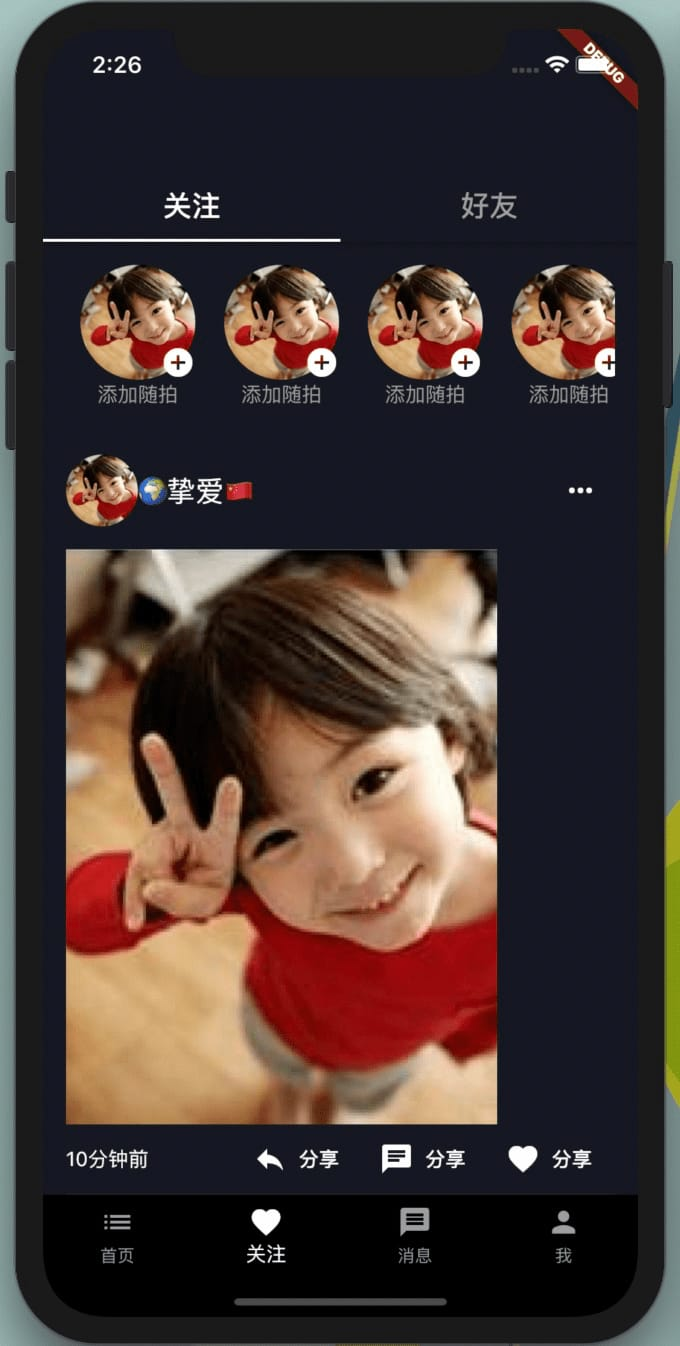
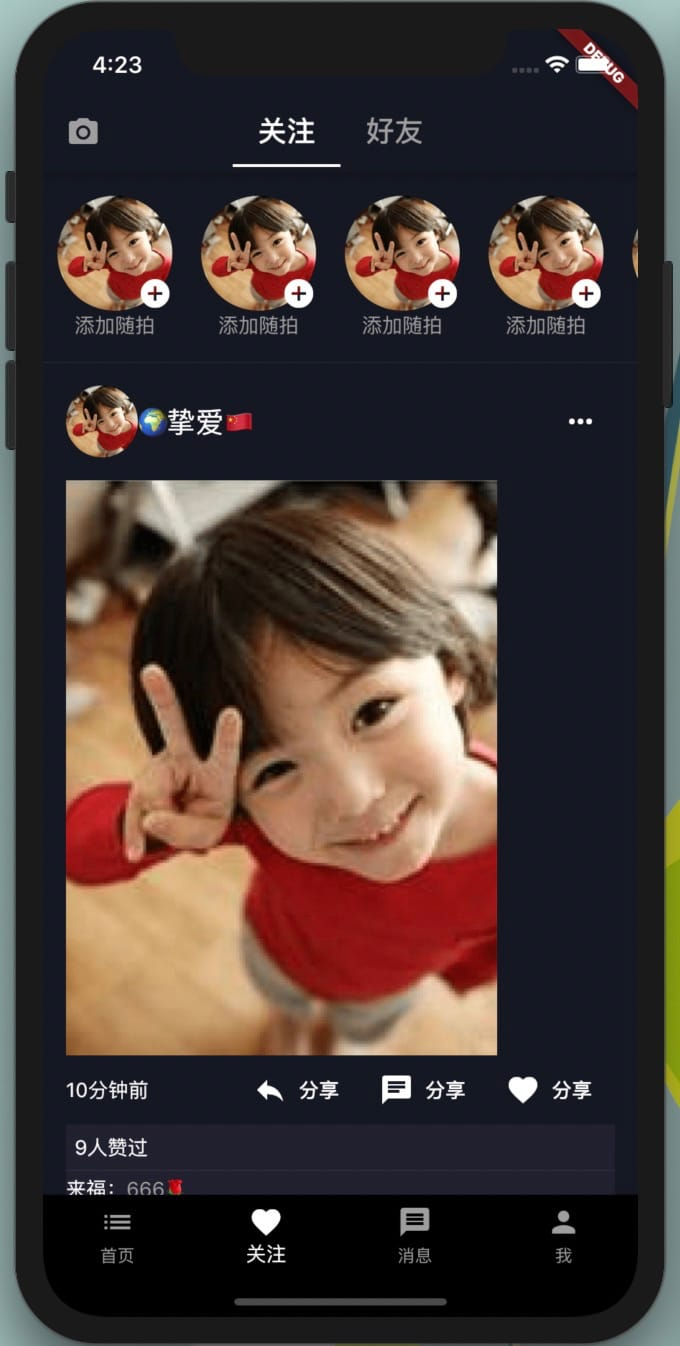
update follow page

diff --git a/lib/follow/index.dart b/lib/follow/index.dart
@@ -34,31 +34,33 @@ class _FollowState extends State<Follow> {
   Widget _onlines() {
     return Container(
       height: 132,
-      padding: EdgeInsets.all(16),
+      padding: EdgeInsets.symmetric(vertical: 16),
       decoration: BoxDecoration(
           border: Border(
-              bottom: Divider.createBorderSide(context,
-                  color: Colors.white10))),
+              bottom:
+                  Divider.createBorderSide(context, color: Colors.white10))),
       child: ListView.builder(
         scrollDirection: Axis.horizontal,
         itemBuilder: (BuildContext context, int i) {
-          return Column(
-            children: <Widget>[
-              Stack(
-                alignment: AlignmentDirectional.bottomEnd,
-                children: <Widget>[
-                  Container(
-                    width: 80,
-                    height: 80,
-                    child: CircleAvatar(
-                      backgroundImage: AssetImage('assets/avatar.png'),
+          return Container(
+            child: Column(
+              children: <Widget>[
+                Stack(
+                  alignment: AlignmentDirectional.bottomEnd,
+                  children: <Widget>[
+                    Container(
+                      width: 80,
+                      height: 80,
+                      child: CircleAvatar(
+                        backgroundImage: AssetImage('assets/avatar.png'),
+                      ),
                     ),
-                  ),
-                  Icon(Icons.add_circle),
-                ],
-              ),
-              Text('添加随拍', style: TextStyle(color: Colors.grey))
-            ],
+                    Icon(Icons.add_circle),
+                  ],
+                ),
+                Text('添加随拍', style: TextStyle(color: Colors.grey))
+              ],
+            ),
           );
         },
         itemCount: 5,
@@ -68,115 +70,111 @@ class _FollowState extends State<Follow> {
   }
 
   Widget _feeds() {
-    return Container(
-      padding: const EdgeInsets.all(16),
-      child: ListView.builder(
-        itemBuilder: (BuildContext context, int i) {
-          return Container(
-            decoration: BoxDecoration(
-                border: Border(
-                    bottom: Divider.createBorderSide(context,
-                        color: Colors.white10))),
-            child: Column(
-              crossAxisAlignment: CrossAxisAlignment.start,
-              children: <Widget>[
-                Padding(
-                  padding: const EdgeInsets.symmetric(vertical: 16),
-                  child: Row(
-                    mainAxisAlignment: MainAxisAlignment.spaceBetween,
-                    children: <Widget>[
-                      Container(
-                        child: Row(
-                          children: <Widget>[
-                            SizedBox(
-                              width: 50,
-                              height: 50,
-                              child: CircleAvatar(
-                                  backgroundImage:
-                                      AssetImage('assets/avatar.png')),
-                            ),
-                            Text('🌍挚爱🇨🇳', style: TextStyle(fontSize: 20))
-                          ],
-                        ),
-                      ),
-                      IconButton(
-                          icon: Icon(Icons.more_horiz), onPressed: () {}),
-                    ],
-                  ),
-                ),
-                Container(
-                  width: 300,
-                  height: 400,
-                  child: Image.asset('assets/avatar.png', fit: BoxFit.cover),
-                ),
-                Row(
+    return ListView.builder(
+      itemBuilder: (BuildContext context, int i) {
+        return Container(
+          padding: const EdgeInsets.symmetric(horizontal: 16),
+          decoration: BoxDecoration(
+              border: Border(
+                  bottom: Divider.createBorderSide(context,
+                      color: Colors.white10))),
+          child: Column(
+            crossAxisAlignment: CrossAxisAlignment.start,
+            children: <Widget>[
+              Padding(
+                padding: const EdgeInsets.symmetric(vertical: 16),
+                child: Row(
                   mainAxisAlignment: MainAxisAlignment.spaceBetween,
                   children: <Widget>[
-                    Text('10分钟前'),
-                    Row(
-                      children: <Widget>[
-                        FlatButton.icon(
-                            onPressed: () {},
-                            icon: Icon(Icons.reply),
-                            label: Text('分享')),
-                        FlatButton.icon(
-                            onPressed: () {},
-                            icon: Icon(Icons.chat),
-                            label: Text('分享')),
-                        FlatButton.icon(
-                            onPressed: () {},
-                            icon: Icon(Icons.favorite),
-                            label: Text('分享')),
-                      ],
+                    Container(
+                      child: Row(
+                        children: <Widget>[
+                          SizedBox(
+                            width: 50,
+                            height: 50,
+                            child: CircleAvatar(
+                                backgroundImage:
+                                    AssetImage('assets/avatar.png')),
+                          ),
+                          Text('🌍挚爱🇨🇳', style: TextStyle(fontSize: 20))
+                        ],
+                      ),
+                    ),
+                    IconButton(icon: Icon(Icons.more_horiz), onPressed: () {}),
+                  ],
+                ),
+              ),
+              Container(
+                width: 300,
+                height: 400,
+                child: Image.asset('assets/avatar.png', fit: BoxFit.cover),
+              ),
+              Row(
+                mainAxisAlignment: MainAxisAlignment.spaceBetween,
+                children: <Widget>[
+                  Text('10分钟前'),
+                  Row(
+                    children: <Widget>[
+                      FlatButton.icon(
+                          onPressed: () {},
+                          icon: Icon(Icons.reply),
+                          label: Text('分享')),
+                      FlatButton.icon(
+                          onPressed: () {},
+                          icon: Icon(Icons.chat),
+                          label: Text('分享')),
+                      FlatButton.icon(
+                          onPressed: () {},
+                          icon: Icon(Icons.favorite),
+                          label: Text('分享')),
+                    ],
+                  ),
+                ],
+              ),
+              Container(
+                color: Color(0xff21202F),
+                child: Column(
+                  crossAxisAlignment: CrossAxisAlignment.stretch,
+                  children: <Widget>[
+                    Container(
+                        decoration: BoxDecoration(
+                            border: Border(
+                                bottom: Divider.createBorderSide(context,
+                                    color: Colors.white10))),
+                        padding: EdgeInsets.all(6),
+                        child: Text('9人赞过')),
+                    RichText(
+                      text: TextSpan(children: [
+                        TextSpan(text: '来福：'),
+                        TextSpan(
+                            text: '666🌹', style: TextStyle(color: Colors.grey))
+                      ]),
+                    ),
+                    RichText(
+                      text: TextSpan(children: [
+                        TextSpan(text: '望天涯：'),
+                        TextSpan(
+                            text: '你咋不上天呢🥒🥒',
+                            style: TextStyle(color: Colors.grey))
+                      ]),
+                    ),
+                    Container(
+                      width: 50,
+                      child: FlatButton.icon(
+                          onPressed: () {},
+                          icon: Icon(Icons.mode_edit),
+                          label: Text('添加评论...',
+                              style: TextStyle(color: Colors.grey))),
                     ),
                   ],
                 ),
-                Container(
-                  color: Color(0xff21202F),
-                  child: Column(
-                    crossAxisAlignment: CrossAxisAlignment.stretch,
-                    children: <Widget>[
-                      Container(
-                          decoration: BoxDecoration(
-                              border: Border(
-                                  bottom: Divider.createBorderSide(context,
-                                      color: Colors.white10))),
-                          padding: EdgeInsets.all(6),
-                          child: Text('9人赞过')),
-                      RichText(
-                        text: TextSpan(children: [
-                          TextSpan(text: '来福：'),
-                          TextSpan(
-                              text: '666🌹',
-                              style: TextStyle(color: Colors.grey))
-                        ]),
-                      ),
-                      RichText(
-                        text: TextSpan(children: [
-                          TextSpan(text: '望天涯：'),
-                          TextSpan(
-                              text: '你咋不上天呢🥒🥒',
-                              style: TextStyle(color: Colors.grey))
-                        ]),
-                      ),
-                      Container(
-                        width: 50,
-                        child: FlatButton.icon(
-                            onPressed: () {},
-                            icon: Icon(Icons.mode_edit),
-                            label: Text('添加评论...',
-                                style: TextStyle(color: Colors.grey))),
-                      ),
-                    ],
-                  ),
-                ),
-              ],
-            ),
-          );
-        },
-        itemExtent: 656,
-        itemCount: 5,
-      ),
+              ),
+            ],
+          ),
+        );
+      },
+      itemExtent: 672,
+      itemCount: 5,
     );
   }
 
